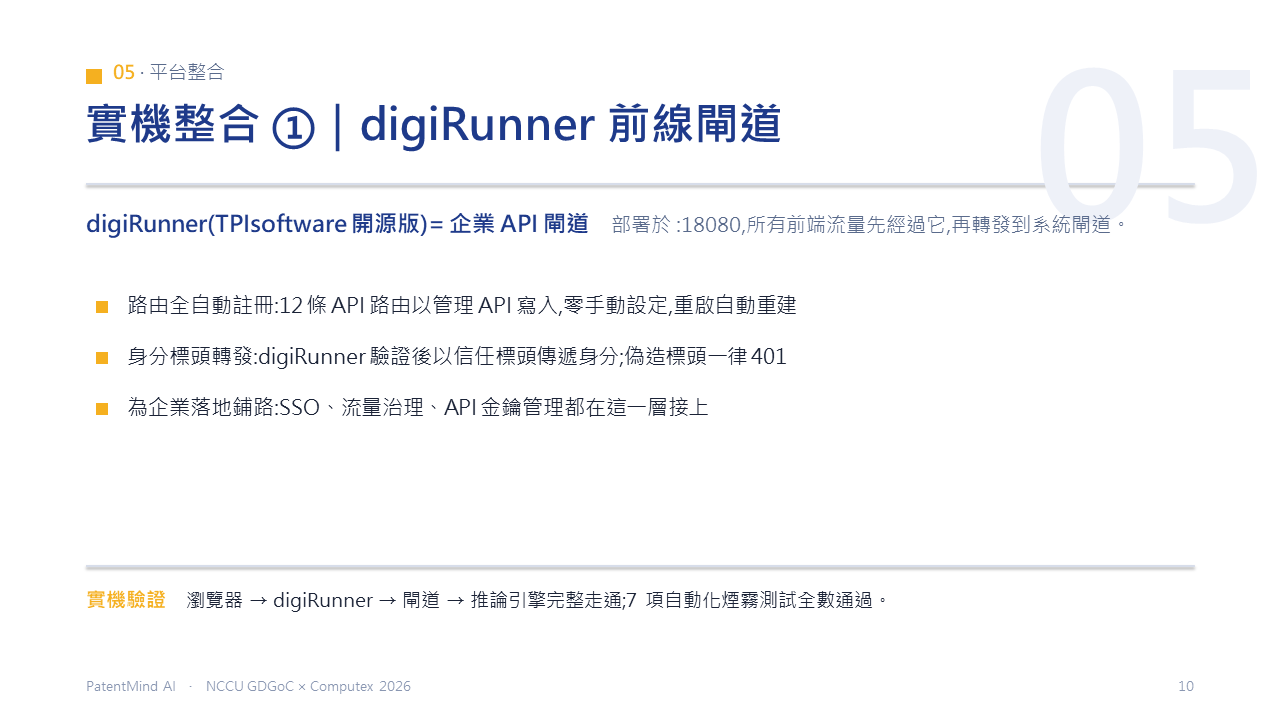
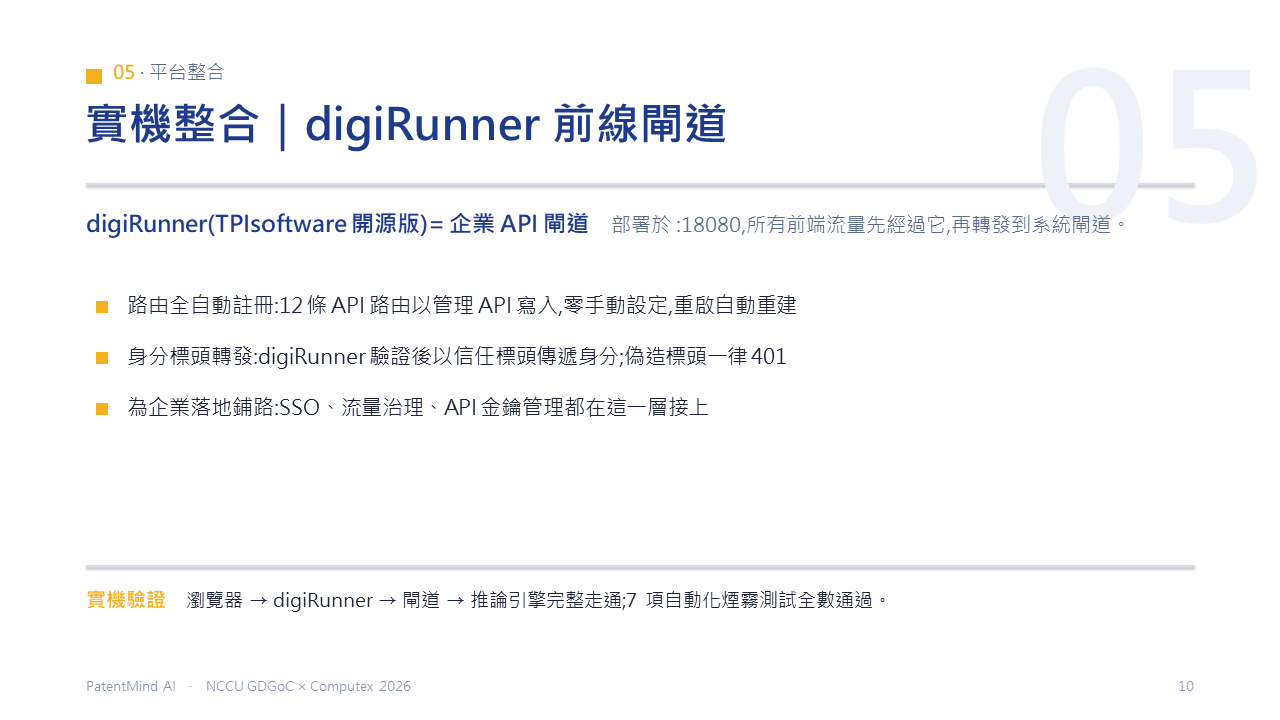
deck: drop circled-number suffixes from integration/runtime slide titles

Changed region(s): [[0.2188, 0.1222, 0.625, 0.2139]]

diff --git a/presentation/build_pptx.py b/presentation/build_pptx.py
@@ -488,7 +488,7 @@ s_shot("04", "產品畫面", "畫面 ③｜草稿與引證驗證",
         ("引用可點開", "點任何引用即顯示來源文件與原文段落,律師不用自己翻。"),
         ("逐句簽核", "每句標示由 AI 或律師撰寫,逐句 Accept / Edit;全部確認才能匯出。"),
        ])
-s_platform("05", "實機整合 ①｜digiRunner 前線閘道",
+s_platform("05", "實機整合｜digiRunner 前線閘道",
     "digiRunner(TPIsoftware 開源版)= 企業 API 閘道",
     "部署於 :18080,所有前端流量先經過它,再轉發到系統閘道。",
     [
@@ -497,7 +497,7 @@ s_platform("05", "實機整合 ①｜digiRunner 前線閘道",
         "為企業落地鋪路:SSO、流量治理、API 金鑰管理都在這一層接上",
     ],
     "瀏覽器 → digiRunner → 閘道 → 推論引擎完整走通;7 項自動化煙霧測試全數通過。")
-s_platform("05", "實機整合 ②｜Dify AI 工作流",
+s_platform("05", "實機整合｜Dify AI 工作流",
     "Dify(社群版,自架)= AI workflow 編排平台",
     "部署於 :8088,申復書的解析與草擬透過 Dify workflow 呼叫本地模型 qwen2.5:7b。",
     [
@@ -507,14 +507,14 @@ s_platform("05", "實機整合 ②｜Dify AI 工作流",
         "引證驗證留在系統內:防幻覺的最後一道牆不外包給任何平台",
     ],
     "真實 OA 經 Dify + 本地模型完整分析:28 秒產出正確分類與繁中草稿。")
-s_shot("05", "平台整合", "運行實況 ①｜真實模型的分析結果",
+s_shot("05", "平台整合", "運行實況｜真實模型的分析結果",
        "real_05_result_real_qwen.png", [
         ("全鏈路 28 秒", "瀏覽器 → digiRunner → 閘道 → 推論引擎 → Dify → 本地模型,無一模擬。"),
         ("正確抓出瑕疵", "台灣 OA:請求項 9「該第一電動車」缺先行詞 — 真模型分類正確。"),
         ("硬牆當場攔截", "真模型也想捏造引用 — 系統即時剝除並在畫面標示。"),
         ("繁中申復書", "本地模型產出符合公文格式的申復書草稿,逐句簽核後才可匯出。"),
        ], base=DELIVERY_SHOTS)
-s_shot("05", "平台整合", "運行實況 ②｜稽核鏈與服務狀態",
+s_shot("05", "平台整合", "運行實況｜稽核鏈與服務狀態",
        "real_08_chain_verified.png", [
         ("記錄實際模型", "每筆分析的稽核列寫明用了哪個模型 — 可究責、可回溯。"),
         ("雜湊鏈全數驗證", "29 筆紀錄 0 不一致;一鍵驗證,竄改即現形。"),
